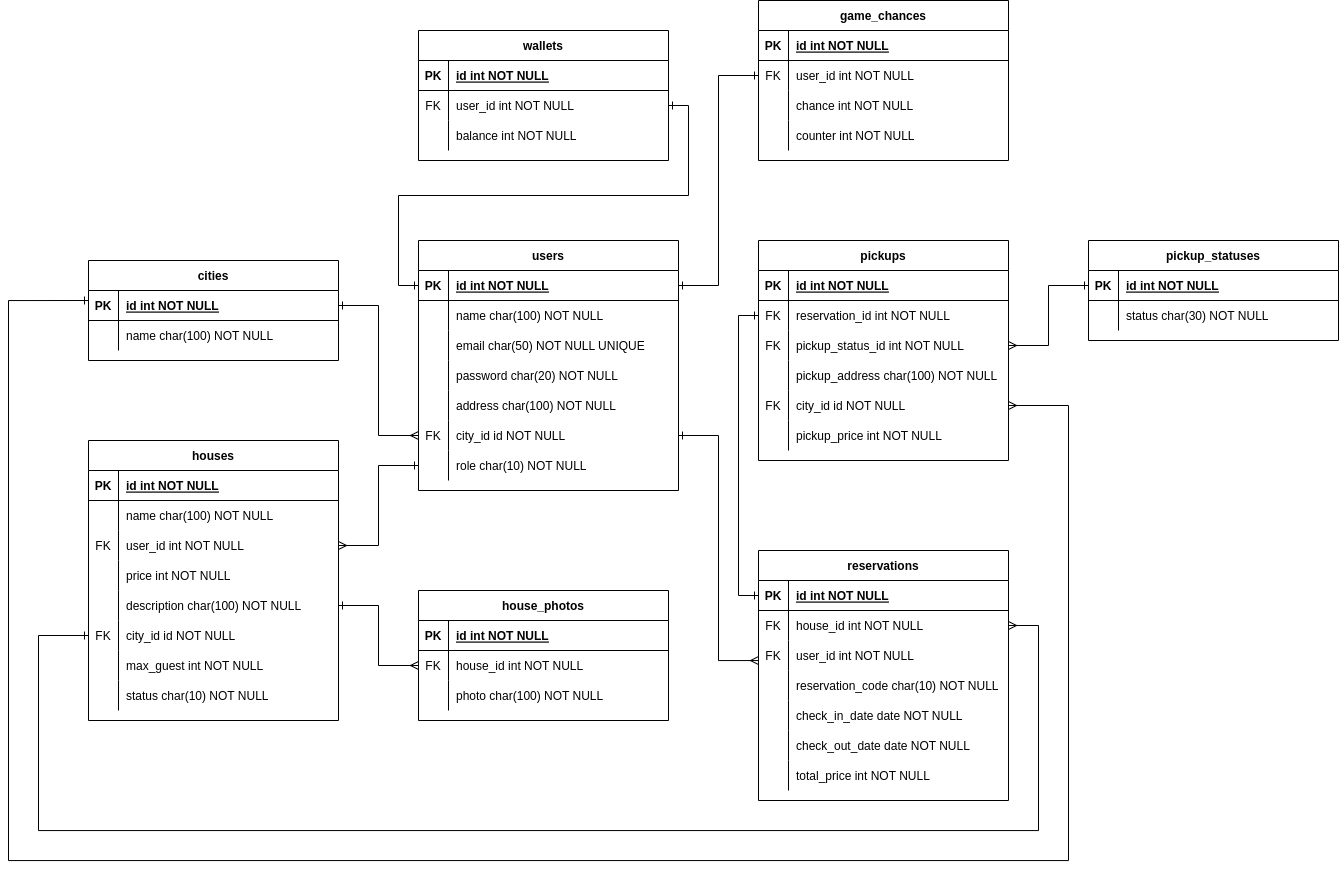
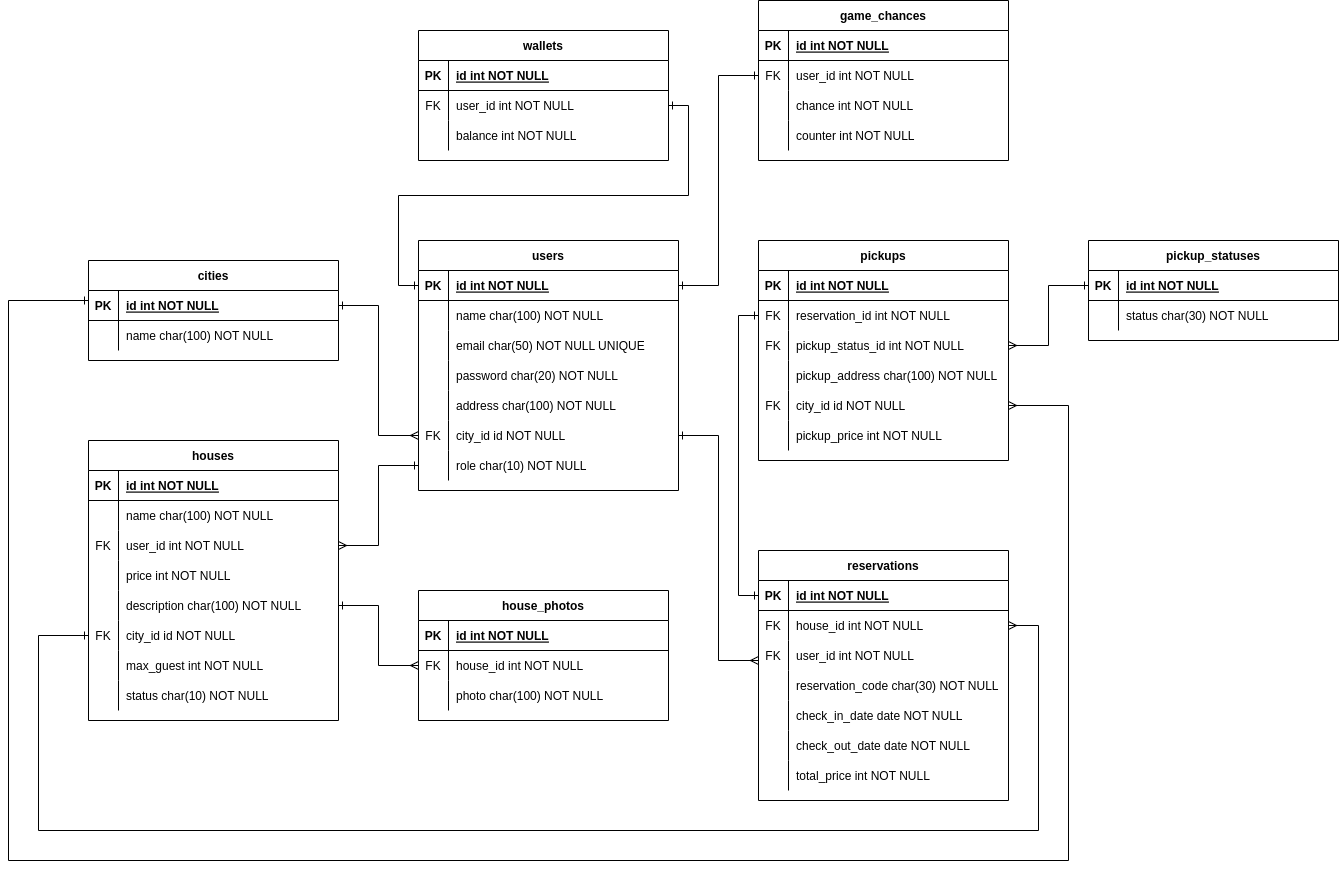
feat: add validations on reservation

diff --git a/internal/errors/error.go b/internal/errors/error.go
@@ -14,7 +14,8 @@ var (
 	ErrNotValidReservationDateConflict  = errors.New("reservation is not valid due to conflicting date")
 	ErrBalanceNotEnoughError            = errors.New("user balance is not enough")
 	ErrNotTodaysReservationError        = errors.New("this is not today's reservation")
-	ErrInvalidReservationDateLaterError = errors.New("invalid reservation date, check in date cannot be later than the check out date")
-	ErrInvalidReservationDateSameError  = errors.New("invalid reservation date, check in date cannot the same as the check out date")
+	ErrInvalidReservationDateLaterError = errors.New("invalid reservation date, the check in date is later than the check out date")
+	ErrInvalidReservationDateSameError  = errors.New("invalid reservation date, the check in date is the same as the check out date")
+	ErrInvalidReservationBeforeNowError = errors.New("invalid reservation date, the reservation date is earlier than today")
 	// ErrInvalidRoleAddHouseError = errors.New("only host can add a new house")
 )

diff --git a/internal/handlers/reservation_handler.go b/internal/handlers/reservation_handler.go
@@ -36,6 +36,11 @@ func (h *Handler) AddReservationHandler(c *gin.Context) {
 			return
 		}
 
+		if errors.Is(err, e.ErrInvalidReservationBeforeNowError) {
+			c.JSON(http.StatusBadRequest, helpers.BuildErrorResponse(http.StatusBadRequest, e.ErrInvalidReservationBeforeNowError.Error()))
+			return
+		}
+
 		if errors.Is(err, e.ErrNotValidReservationDateConflict) {
 			c.JSON(http.StatusBadRequest, helpers.BuildErrorResponse(http.StatusBadRequest, e.ErrNotValidReservationDateConflict.Error()))
 			return

diff --git a/internal/services/reservation_service.go b/internal/services/reservation_service.go
@@ -54,6 +54,12 @@ func (s *reservationService) AddReservation(userID int, request *dtos.AddReserva
 		return nil, e.ErrInvalidReservationDateLaterError
 	}
 
+	now, _ := time.Parse(format, time.Now().Format(format))
+
+	if now.After(checkInDate) {
+		return nil, e.ErrInvalidReservationBeforeNowError
+	}
+
 	err := s.reservationRepository.ValidateReservation(request)
 
 	if err != nil {
